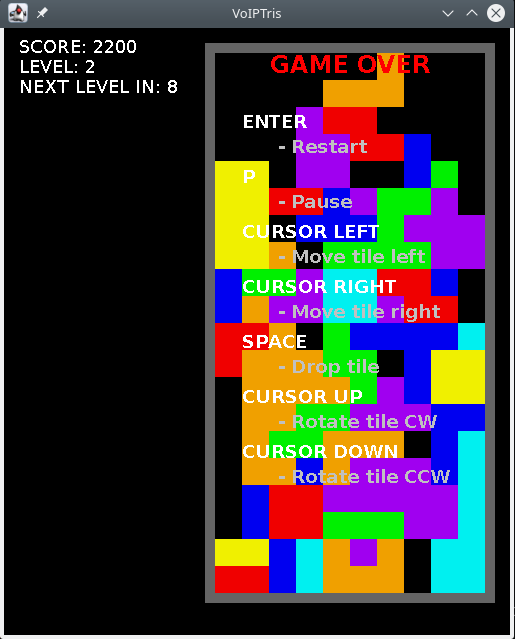
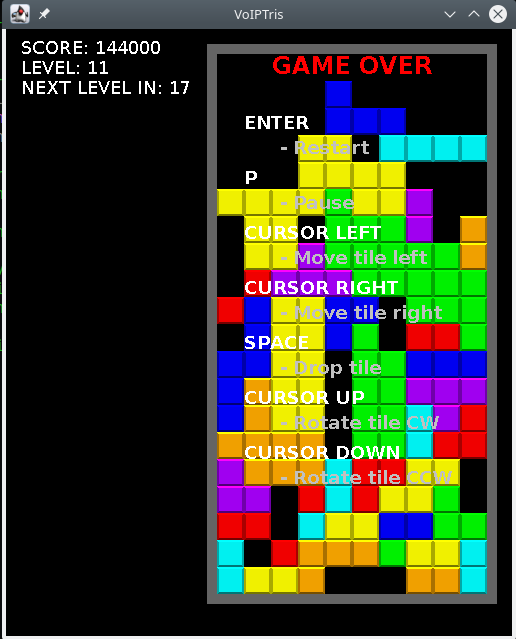
improved tile rendering

diff --git a/src/main/java/com/voipfuture/voiptris/GameScreen.java b/src/main/java/com/voipfuture/voiptris/GameScreen.java
@@ -108,14 +108,55 @@ public class GameScreen extends JFrame
             g.fillRect( topLeftX, topLeftY, playingFieldWidth, playingFieldHeight );
 
             // render playing field
+            final int cellBorder = 2;
+
+            final int[] px = new int[4];
+            final int[] py = new int[4];
+
             for (int y = topLeftY, ty = 0; ty < getPlayingField().height() ; y += cellWidth, ty++)
             {
                 for (int x = topLeftX, tx = 0; tx < getPlayingField().width(); x += cellWidth, tx++)
                 {
                     final Optional<TileType> tileId = getPlayingField().getTileType( tx,ty );
-                    if ( tileId.isPresent() ) {
-                        g.setColor( COLORS.get(tileId.get()) );
+                    if ( tileId.isPresent() )
+                    {
+                        final Color color = COLORS.get(tileId.get());
+
+                        // fill inner
+                        g.setColor(color);
                         g.fillRect( x,y,cellWidth, cellWidth);
+
+                        // fill top
+                        px[0] = x; py[0] = y;
+                        px[1] = x+cellWidth; py[1] = y;
+                        px[2] = x+cellWidth-cellBorder; py[2] =y+cellBorder;
+                        px[3] = x+cellBorder; py[3] = y+cellBorder;
+                        g.setColor( color.brighter().brighter() );
+                        g.fillPolygon(px,py,4);
+
+                        // fill left
+                        px[0] = x; py[0] = y;
+                        px[1] = x+cellBorder; py[1] = y+cellBorder;
+                        px[2] = x+cellBorder; py[2] = y+cellWidth-cellBorder;
+                        px[3] = x; py[3] = y+cellWidth;
+                        g.setColor( color.darker() );
+                        g.fillPolygon(px,py,4);
+
+                        // fill right
+                        px[0] = x+cellWidth; py[0] = y;
+                        px[1] = x+cellWidth; py[1] = y+cellWidth;
+                        px[2] = x+cellWidth-cellBorder; py[2] = y+cellWidth-cellBorder;
+                        px[3] = x+cellWidth-cellBorder; py[3] = y+cellBorder;
+                        g.setColor( color.darker() );
+                        g.fillPolygon(px,py,4);
+
+                        // fill bottom
+                        px[0] = x+cellBorder; py[0] = y+cellWidth-cellBorder;
+                        px[1] = x+cellWidth-cellBorder; py[1] = y+cellWidth-cellBorder;
+                        px[2] = x+cellWidth; py[2] = y+cellWidth;
+                        px[3] = x; py[3] = y+cellWidth;
+                        g.setColor( color.darker().darker() );
+                        g.fillPolygon(px,py,4);
                     }
                 }
             }
@@ -123,13 +164,13 @@ public class GameScreen extends JFrame
             if ( showGrid && controller.getState() != GameState.GAME_OVER )
             {
                 g.setColor(Color.WHITE);
-                for (int py = topLeftY, y = 0; y < getPlayingField().height() ; py+= cellWidth,y++)
+                for (int gridY = topLeftY, y = 0; y < getPlayingField().height() ; gridY+= cellWidth,y++)
                 {
-                    g.drawLine( topLeftX, py, bottomRightX, py );
+                    g.drawLine( topLeftX, gridY, bottomRightX, gridY );
                 }
-                for (int px = topLeftX, x = 0; x < getPlayingField().width(); px += cellWidth, x++)
+                for (int gridX = topLeftX, x = 0; x < getPlayingField().width(); gridX += cellWidth, x++)
                 {
-                    g.drawLine(px,topLeftY,px,bottomRightY);
+                    g.drawLine(gridX,topLeftY,gridX,bottomRightY);
                 }
             }
 
